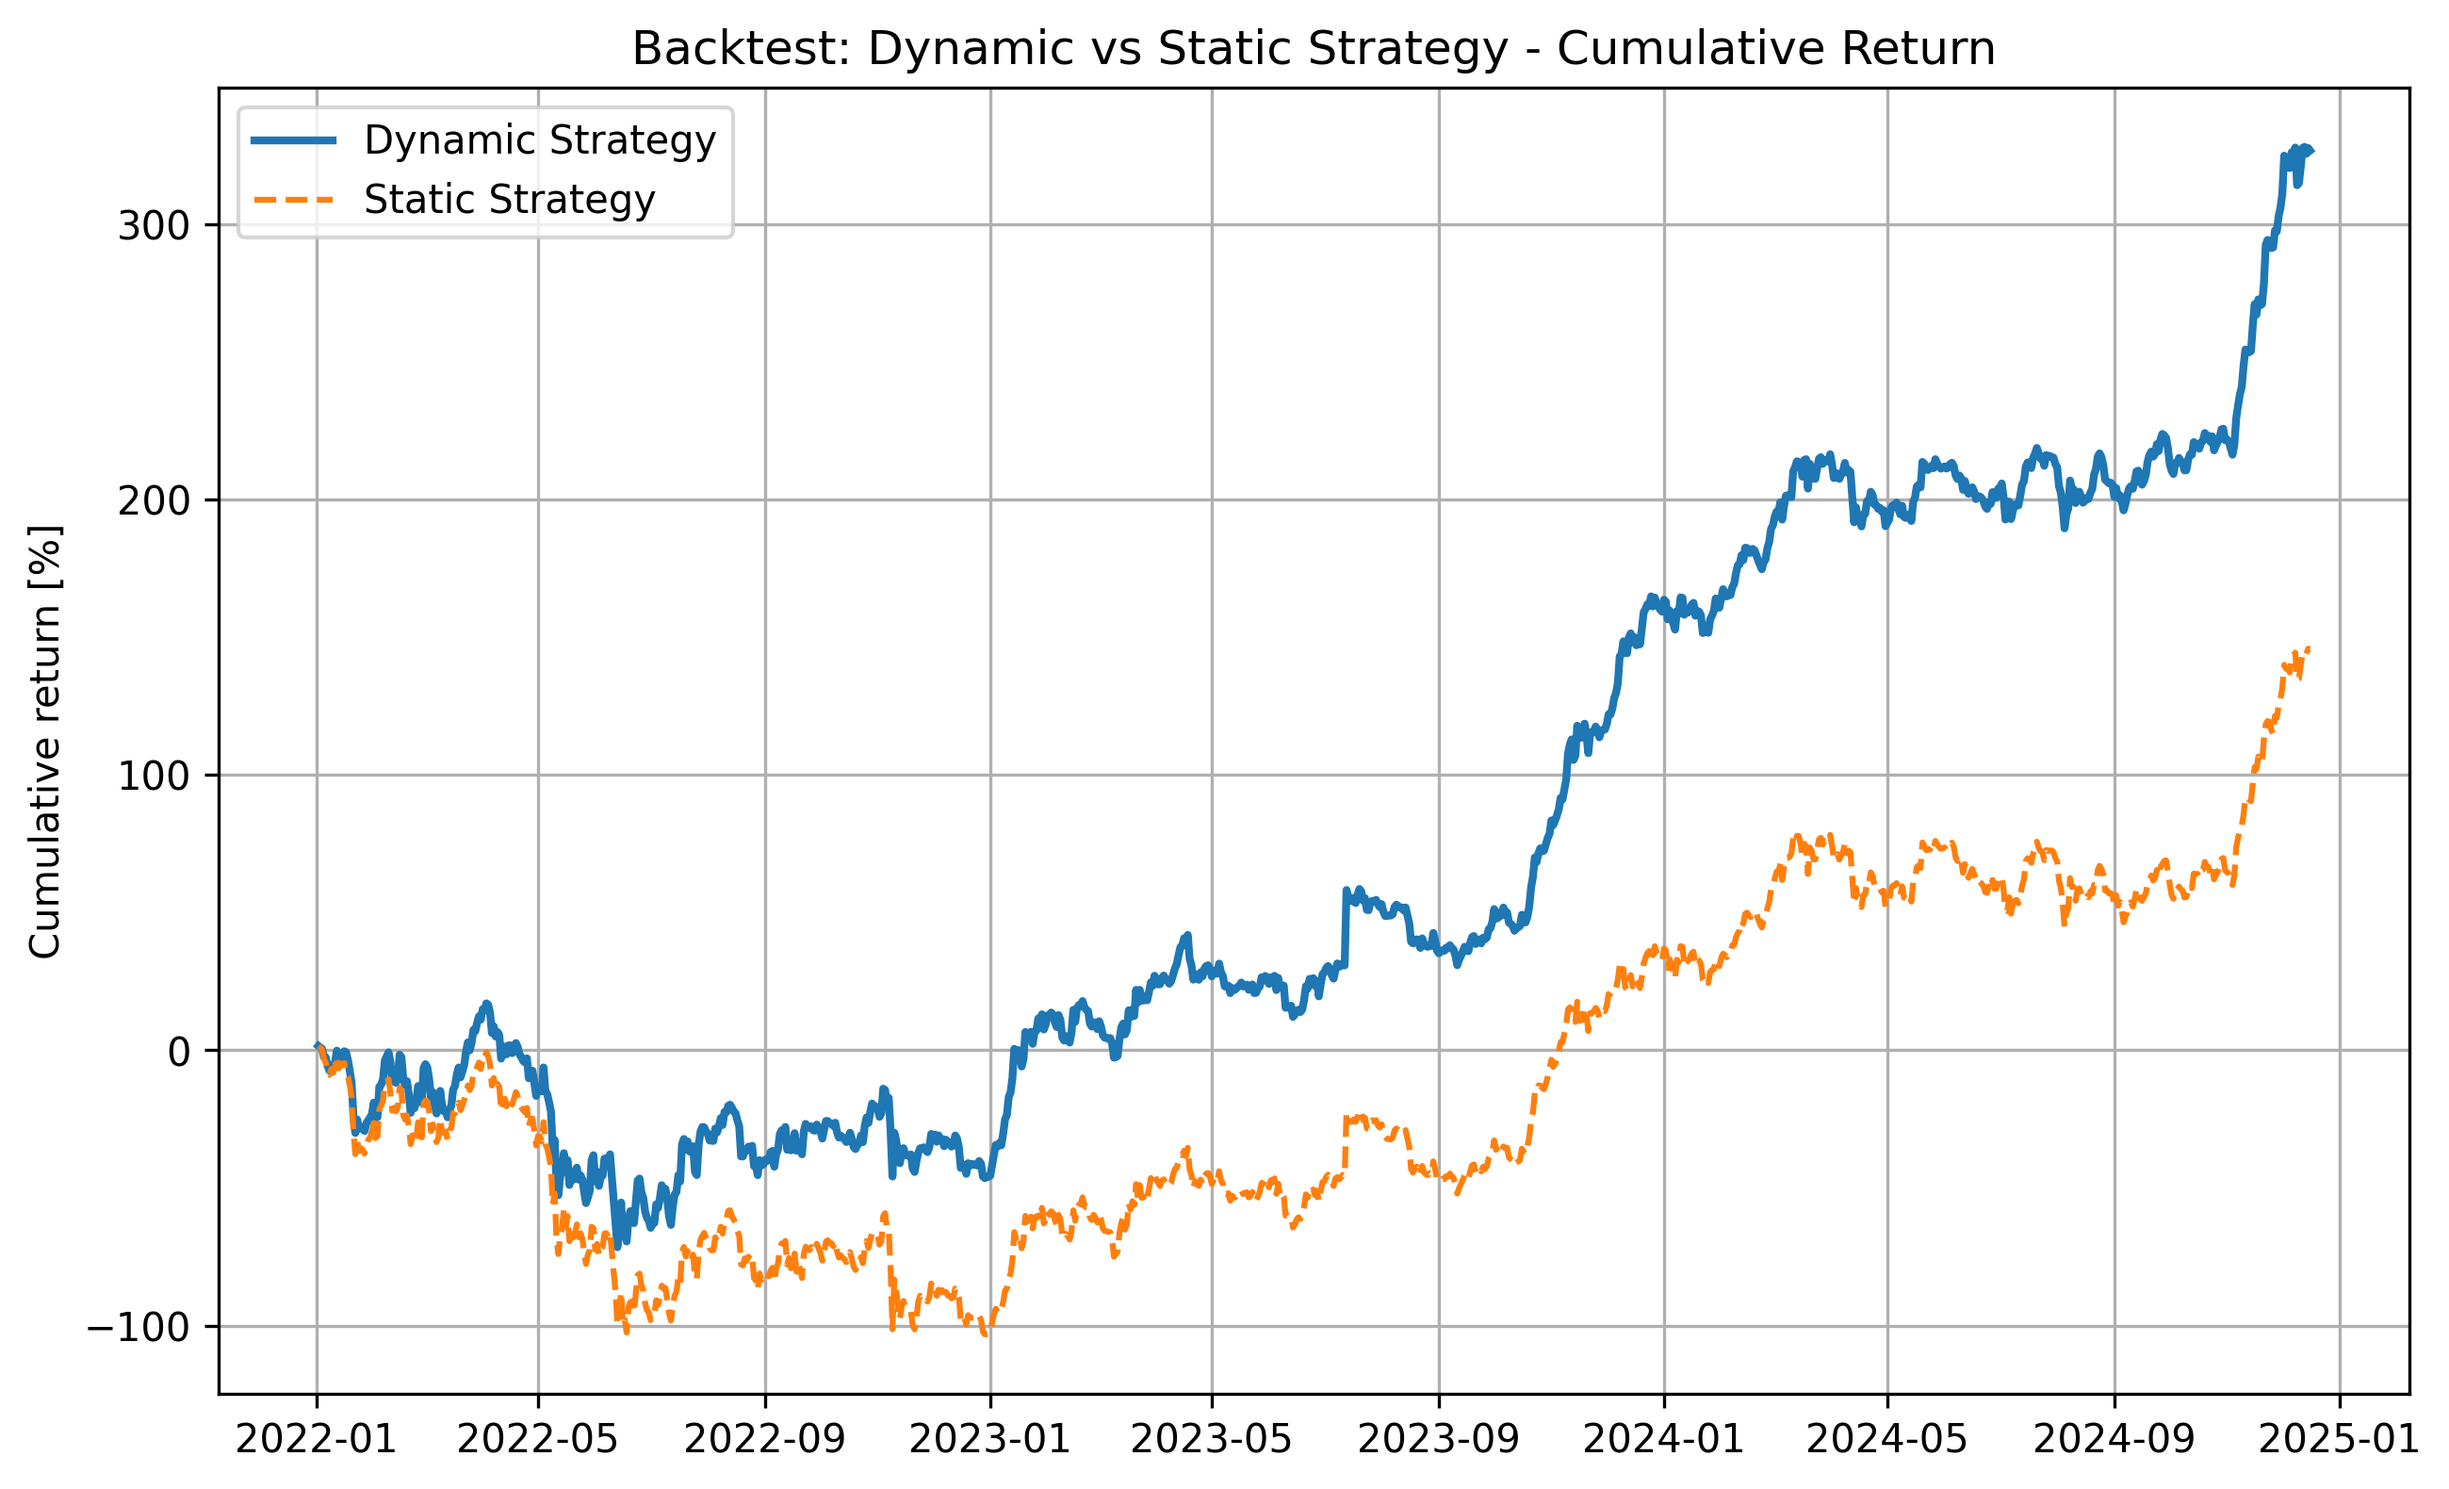
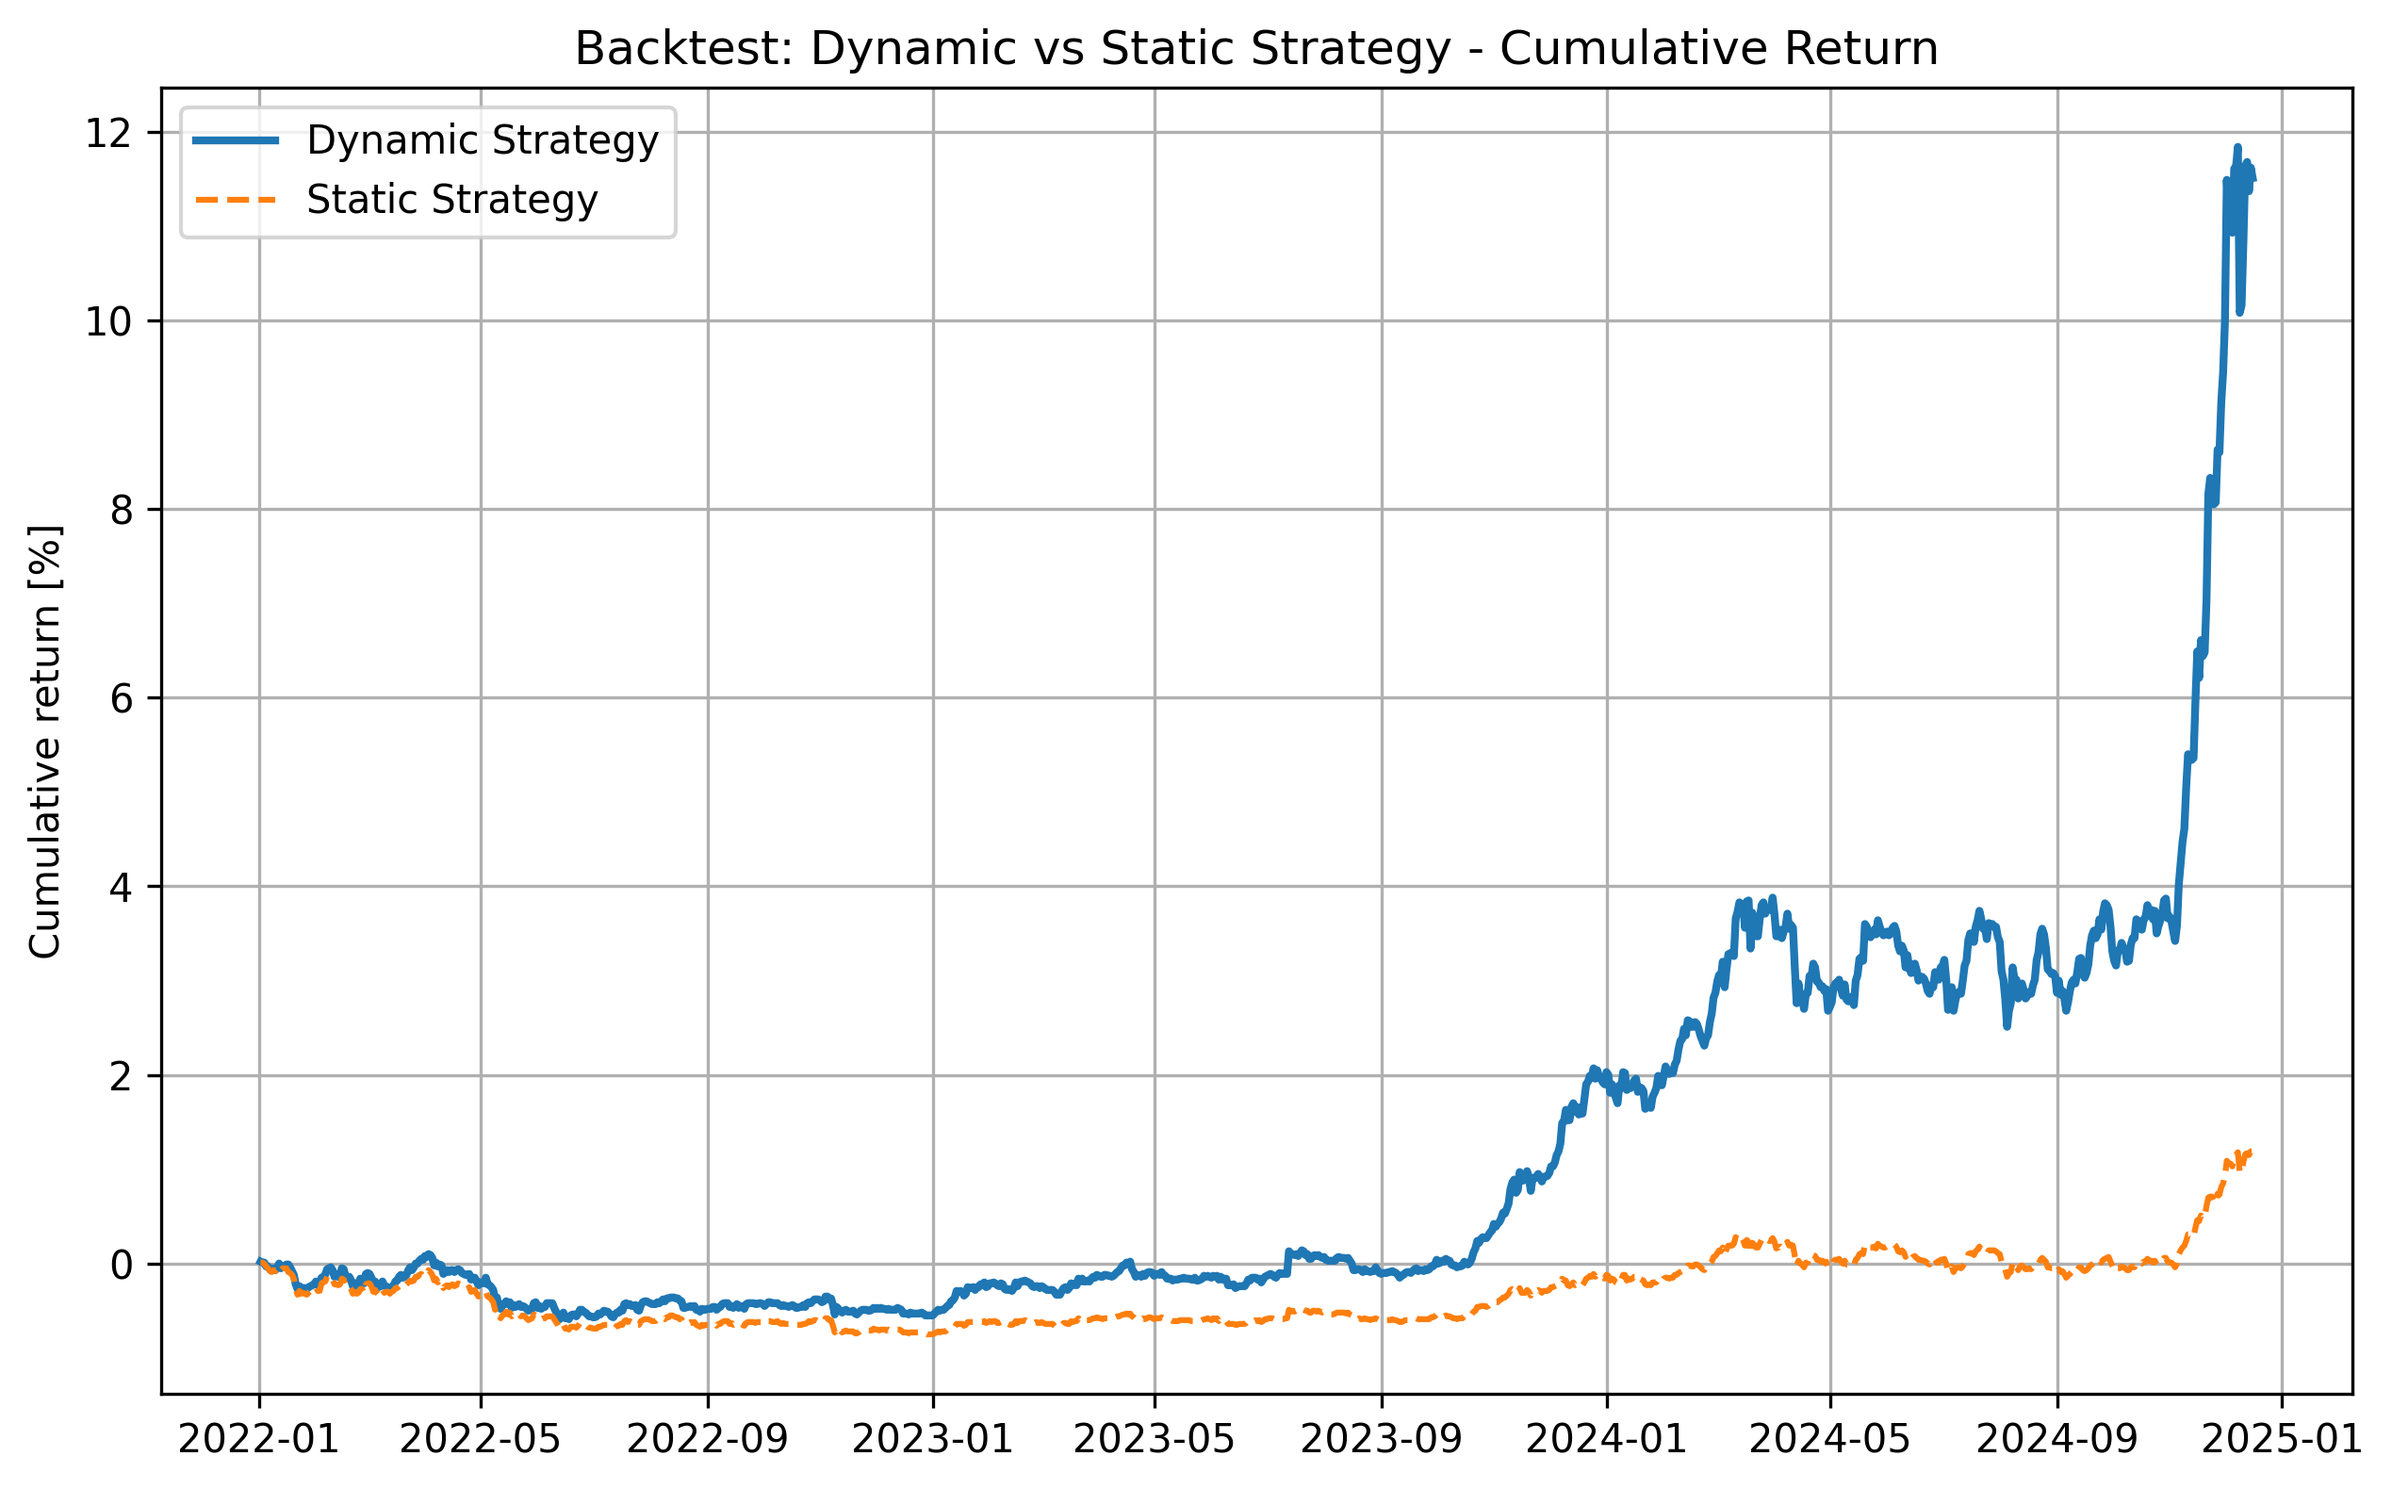
2025-10-15

diff --git a/src/main.py b/src/main.py
@@ -40,7 +40,7 @@ stat=performance_stats(static_portfolio_return)
 
 results_df=pd.DataFrame({
   "Sharpe Ratio": [np.round(dyn["Sharpe Ratio"], 3),np.round(stat["Sharpe Ratio"],3)],
-  "Cumulative Return[%]":[np.round(dynamic_portfolio_return.cumsum()*100, 3), np.round(static_portfolio_return.cumsum()*100, 3)],
+  "Cumulative Return[%]":[np.round(((1+dynamic_portfolio_return).cumprod()-1)*100, 3), np.round(((1+static_portfolio_return).cumprod()-1)*100, 3)],
 }, index=["Dynamic Strategy", "Static Strategy"])
 
 weights_df =pd.DataFrame({
@@ -52,8 +52,10 @@ print("\nPerformance comparison:")
 print(summary)
 summary.to_csv("data/weights.csv")
 
-dyn_ret=np.round(dynamic_portfolio_return.cumsum().iloc[-1]*100, 2)
-stat_ret=np.round(static_portfolio_return.cumsum().iloc[-1]*100, 2)
+
+
+dyn_ret=np.round(((1+dynamic_portfolio_return).cumprod()-1).iloc[-1], 2)
+stat_ret=np.round(((1+static_portfolio_return).cumprod()-1).iloc[-1], 2)
 
 print(f"Static portfolio cumulative return: {stat_ret} %")
 print(f"Dynamic portfolio cumulative return: {dyn_ret} %")
@@ -65,9 +67,11 @@ print("result saved to data/backtest_results.csv")
 
 #RESULT PLOTTING
 #cumulative return of portfolios
+dynamic_portfolio_return=np.round(((1+dynamic_portfolio_return).cumprod()-1), 2)
+static_portfolio_return=np.round(((1+static_portfolio_return).cumprod()-1), 2)
 plt.figure(figsize=(10,6))
-plt.plot(dynamic_portfolio_return.index, dynamic_portfolio_return.cumsum()*100, label="Dynamic Strategy", linewidth=2)
-plt.plot(static_portfolio_return.index, static_portfolio_return.cumsum()*100, label="Static Strategy", linestyle="--")
+plt.plot(dynamic_portfolio_return.index, dynamic_portfolio_return, label="Dynamic Strategy", linewidth=2)
+plt.plot(static_portfolio_return.index, static_portfolio_return, label="Static Strategy", linestyle="--")
 plt.title("Backtest: Dynamic vs Static Strategy - Cumulative Return")
 plt.ylabel("Cumulative return [%]")
 plt.legend()

diff --git a/src/market_regime.py b/src/market_regime.py
@@ -1,22 +1,32 @@
 #Define market regime 
 #Moving average crossover strategy
-#if price>200MA => bullish else bearish
 
 import pandas as pd #to use rolling function
+import matplotlib.pyplot as plt
+
+def plotting(short_ma, long_ma, prices):
+  plt.figure(figsize=(12,6))
+  plt.plot(short_ma, color="blue", label="50_MA")
+  plt.plot(long_ma, color="red", label="200_MA")
+  plt.plot(prices, color="black", label="BTC_price")
+  plt.title("Moving Average CrossOver")
+  plt.legend()
+  plt.grid(True, color="grey")
+  plt.savefig("plot/MACS.jpg")
+  plt.show()
 
 def detect_market_regime(prices, short_window=50, long_window=200):
   #compute 50MA 
   short_ma=prices.rolling(window=short_window).mean() #single value
   #compute 200MA
   long_ma=prices.rolling(window=long_window).mean() #single value
-
   #condition implementation for bullish market regime
   regime=(short_ma>long_ma).astype(int) #since we want 1 if True and 0 if False
-  
+  plotting(short_ma=short_ma, long_ma=long_ma, prices=prices)
   return regime
 
-#if __name__=="__main__":
-#  prices=pd.read_csv("data/crypto_data.csv", parse_dates=True, index_col=0)
-#  regime=detect_market_regime(prices)
-#  print("Market Regime (1: Bullish, 0: Bearish):")
-#  print(regime.tail())
+if __name__=="__main__":
+  prices=pd.read_csv("data/crypto_data.csv", parse_dates=True, index_col=0)
+  regime=detect_market_regime(prices)
+  print("Market Regime (1: Bullish, 0: Bearish):")
+  print(regime.tail())

diff --git a/src/backtest.py b/src/backtest.py
@@ -5,7 +5,7 @@ from optimizer import optimize_portfolio
 from market_regime import detect_market_regime
 import matplotlib.pyplot as plt
   
-def backtest(prices,window, bullish_penalty, bearish_penalty, transaction_cost=0.1):
+def backtest(prices,window, bullish_penalty, bearish_penalty, transaction_cost=0.001):
   asset_returns=prices.pct_change().dropna() #(1095, 3)
   
   #DYNAMIC STRATEGY
@@ -62,9 +62,10 @@ def backtest(prices,window, bullish_penalty, bearish_penalty, transaction_cost=0
 
 def performance_stats(strategy_returns):
   expected_return=strategy_returns.mean()
+  risk_free_return=0.033/252 #to have dailt return of risk free asset
   standard_deviation_return=strategy_returns.std()
-  sharpe_ratio=expected_return/standard_deviation_return * np.sqrt(252) if standard_deviation_return>0 else 0 #annualized sharpe ratio
-  cumulative_return=(1+strategy_returns).prod()-1 #known formula
+  sharpe_ratio=(expected_return-risk_free_return)/standard_deviation_return * np.sqrt(252) if standard_deviation_return>0 else 0 #annualized sharpe ratio
+  cumulative_return=(1+strategy_returns).cumprod()-1 #known formula
 
   stats={
     "Cumulative Return": cumulative_return,

diff --git a/src/data_fetch.py b/src/data_fetch.py
@@ -9,10 +9,10 @@ def fetch_crypto_data(ticker, start, end):
   return data
 
 #condition that runs the file only when called directly, we avoid the auto call from importing
-#if __name__=="__main__":
-#  tickers=["BTC-USD","ETH-USD", "XRP-USD"]
-#  data=fetch_crypto_data(start="2022-01-01", end="2025-01-01", ticker=tickers)
-#  data.to_csv("data/crypto_data.csv")
-#  print("Data saved to data/crypto_data.csv ... :)")
+if __name__=="__main__":
+  tickers=["BTC-USD", "ETH-USD", "SOL-USD", "AVAX-USD", "ADA-USD", "XRP-USD", "LINK-USD"]
+  data=fetch_crypto_data(start="2022-01-01", end="2025-01-01", ticker=tickers)
+  data.to_csv("data/crypto_data.csv")
+  print("Data saved to data/crypto_data.csv ... :)")
 
 

diff --git a/README.md b/README.md
@@ -1,57 +1,57 @@
-# Crypto Portfolio Optimizer
+### Crypto Portfolio Optimizer
+In this project i am interested in estimating the difference in cumulative returns between a dynamic portfolio and a static portfolio based on market regime detection for rebalancing switch. The main question is, using a financial asset that is extremely volatile for definition, what is the best strategy between a static portfolio held for the time period, and   a dynamic portfolio with monthly rebalancing based on signals created from a market regime detection estimator (bullish vs bearish) with transaction cost on turnover of weights?
 
-## Description
-Dynamic **crypto portfolio optimizer** with **monthly rebalancing**, transaction costs (0.1%), and **market regime detection** (bullish vs bearish).  
+We use the crypto market to try to handle a financial object that is extremely volatile for definition.
 
-The optimizer adjusts the **risk penalty** parameter (\(\lambda\)) according to market regime:  
+### Optimization engine
+For the optimization of the portfolio weights we use the Mean Variance Optimization engine (MVO) that is a convex problem of maximization, that we solve using cvxpy library.
 
-- **Bullish:** `bullish_penalty = 0.3`  
+### The market regime detection
+In MVO fundamental is the parameter (\lambda)\ i have defined as **risk_penalty** variable. Formally, we estimate the weights according to a different value of risk_penalty according to signal generated from market regime detector.
+
+- **Bullish:** `bullish_penalty = 0.2`  
 - **Bearish:** `bearish_penalty = 0.8`  
 
-Where **risk_penalty** represents investor risk aversion:  
-- High → prioritize **risk reduction**  
-- Low → prioritize **return maximization**  
+I recall that **risk_penalty** represents investor risk aversion so:  
+- High → prioritize **risk reduction** of portfolio  
+- Low → prioritize **return maximization** of portfolio 
 
-The optimizer solves a **convex optimization problem** using `cvxpy`:
-
+### MVO equation used
 cp.Maximize(mu @ w - risk_penalty * cp.quad_form(w, sigma))
 
-**Constraints:**  
-- No short-selling: w>=0  
-- Fully invested: cp.sum(w)==1  
-- Max weight per asset: w <= 0.20  
+### Constraints imposed  
+- **No short-selling** so weights of portfolio have to be positive => **w>=0**   
+- **Fully invested capital** so we ensure the entirety of capital is invested and not held as liquidity => **cp.sum(w)==1**  
+- **Limit to single exposure** since i want to ensure diversification in portfolio and avoid the divergence of the problem in allocating all resources into a single asset (that is financially absurd in portfolio management) => **w <= 0.20**  
 
-Performance is benchmarked against a **Buy & Hold strategy** with a static initial portfolio.
+### Market regime detection system
+In order to provide a signal i have defined arbitrarily two market conditions moving average crossover strategy on BTC-USD crypto since i have assumed (by observation of past events) that BTC is the trend maker for the crypto market.
+In the specific i have used a Moving average crossover strategy using 200 moving average against 50 moving average.
 
----
+Formally:
+if MA(50)>MA(200) => GOLDEN CROSS => BULL MARKET => 1
+if MA(50)<=MA(200) => DEATH CROSS => BEAR MARKET => 0
 
-## Features
-- Fetch historical crypto prices via **Yahoo Finance API**.  
-- Optimize portfolio allocation using **convex optimization** (`cvxpy`) with risk penalty.  
-- Detect **market regimes** using moving average crossover (50-day vs 200-day) on BTC-USD price, assuming the strong impact this crypto has in defining market regime.  
-- Apply **rebalancing costs** proportional to portfolio turnover.  
-- Compare dynamic rebalancing vs Buy & Hold in a **backtesting framework**.  
-- Calculate key **performance metrics**: cumulative return, volatility, Sharpe ratio.  
-- Save results as **CSV** for further analysis.  
-- Plot **cumulative returns** over time.  
-- Plot **final optimal portfolio weights** as a pie chart.
-- Save plots made in folder /plot for better visualization
+The plot of two curves can be seen in plot/MACS.jpg
 
----
+### Backtesting
+I am interested in defining using in sample testing if the strategy would have been profitable over the time period 2022-2024, so if dynamic portfolio would has been better than a static buy and hold. To do so i have performed a rolling window approach using the window of 1 month (rounghly 30 periods) considering a per unit turnover cost of 0.1% (so 0.001).
 
-## File Structure
-crypto-portfolio-optimizer/
-│
-├─ src/
-│ ├─ main.py                # Integrates all modules and runs backtest
-│ ├─ optimizer.py           # Portfolio optimization logic
-│ ├─ data_fetch.py          # Fetch historical crypto data
-│ ├─ market_regime.py       # Market regime detection
-│ └─ backtest.py            # Rolling-window backtesting framework
-│
-├─ data/
-│ ├─ crypto_data.csv        # Historical price data
-│ └─ backtest_results.csv   # Backtest output
-│
-├─ README.md
-└─ requirements.txt
+The cumulative return can be seen in plot/backtest_comparison.jpg
+
+### Weights computation for last period
+Finally i was interested in computing last list of weights for the portfolio and plot them as pie chart, the plot can be seen in plot/asset_allocation.jpg that is valid for last period considered.
+
+### Metrics computation
+I have computed Sharpe Ratio and Cumulative last return to compare the strategies and take conclusions.
+
+|Portfolio | Sharpe Ratio | Cumulative Return [%] |
+|----------|--------------|-----------------------|
+|Dynamic   |         1.240|                  11.51|
+|Static    |         0.549|                   1.19|
+
+sharpe computed with risk_free_rate of 0.3% of 1 YEAR US TBILL.
+
+
+### Conclustions
+Based on current information, the Dynamic Portfolio outperformed the Static Portfolio by +10.32%. This performance gap likely reflects the higher volatility of the underlying assets, which the dynamic allocation managed more efficiently. Moreover, the Dynamic Portfolio achieved a Sharpe Ratio higher by +1.240, indicating a superior risk-adjusted return.
